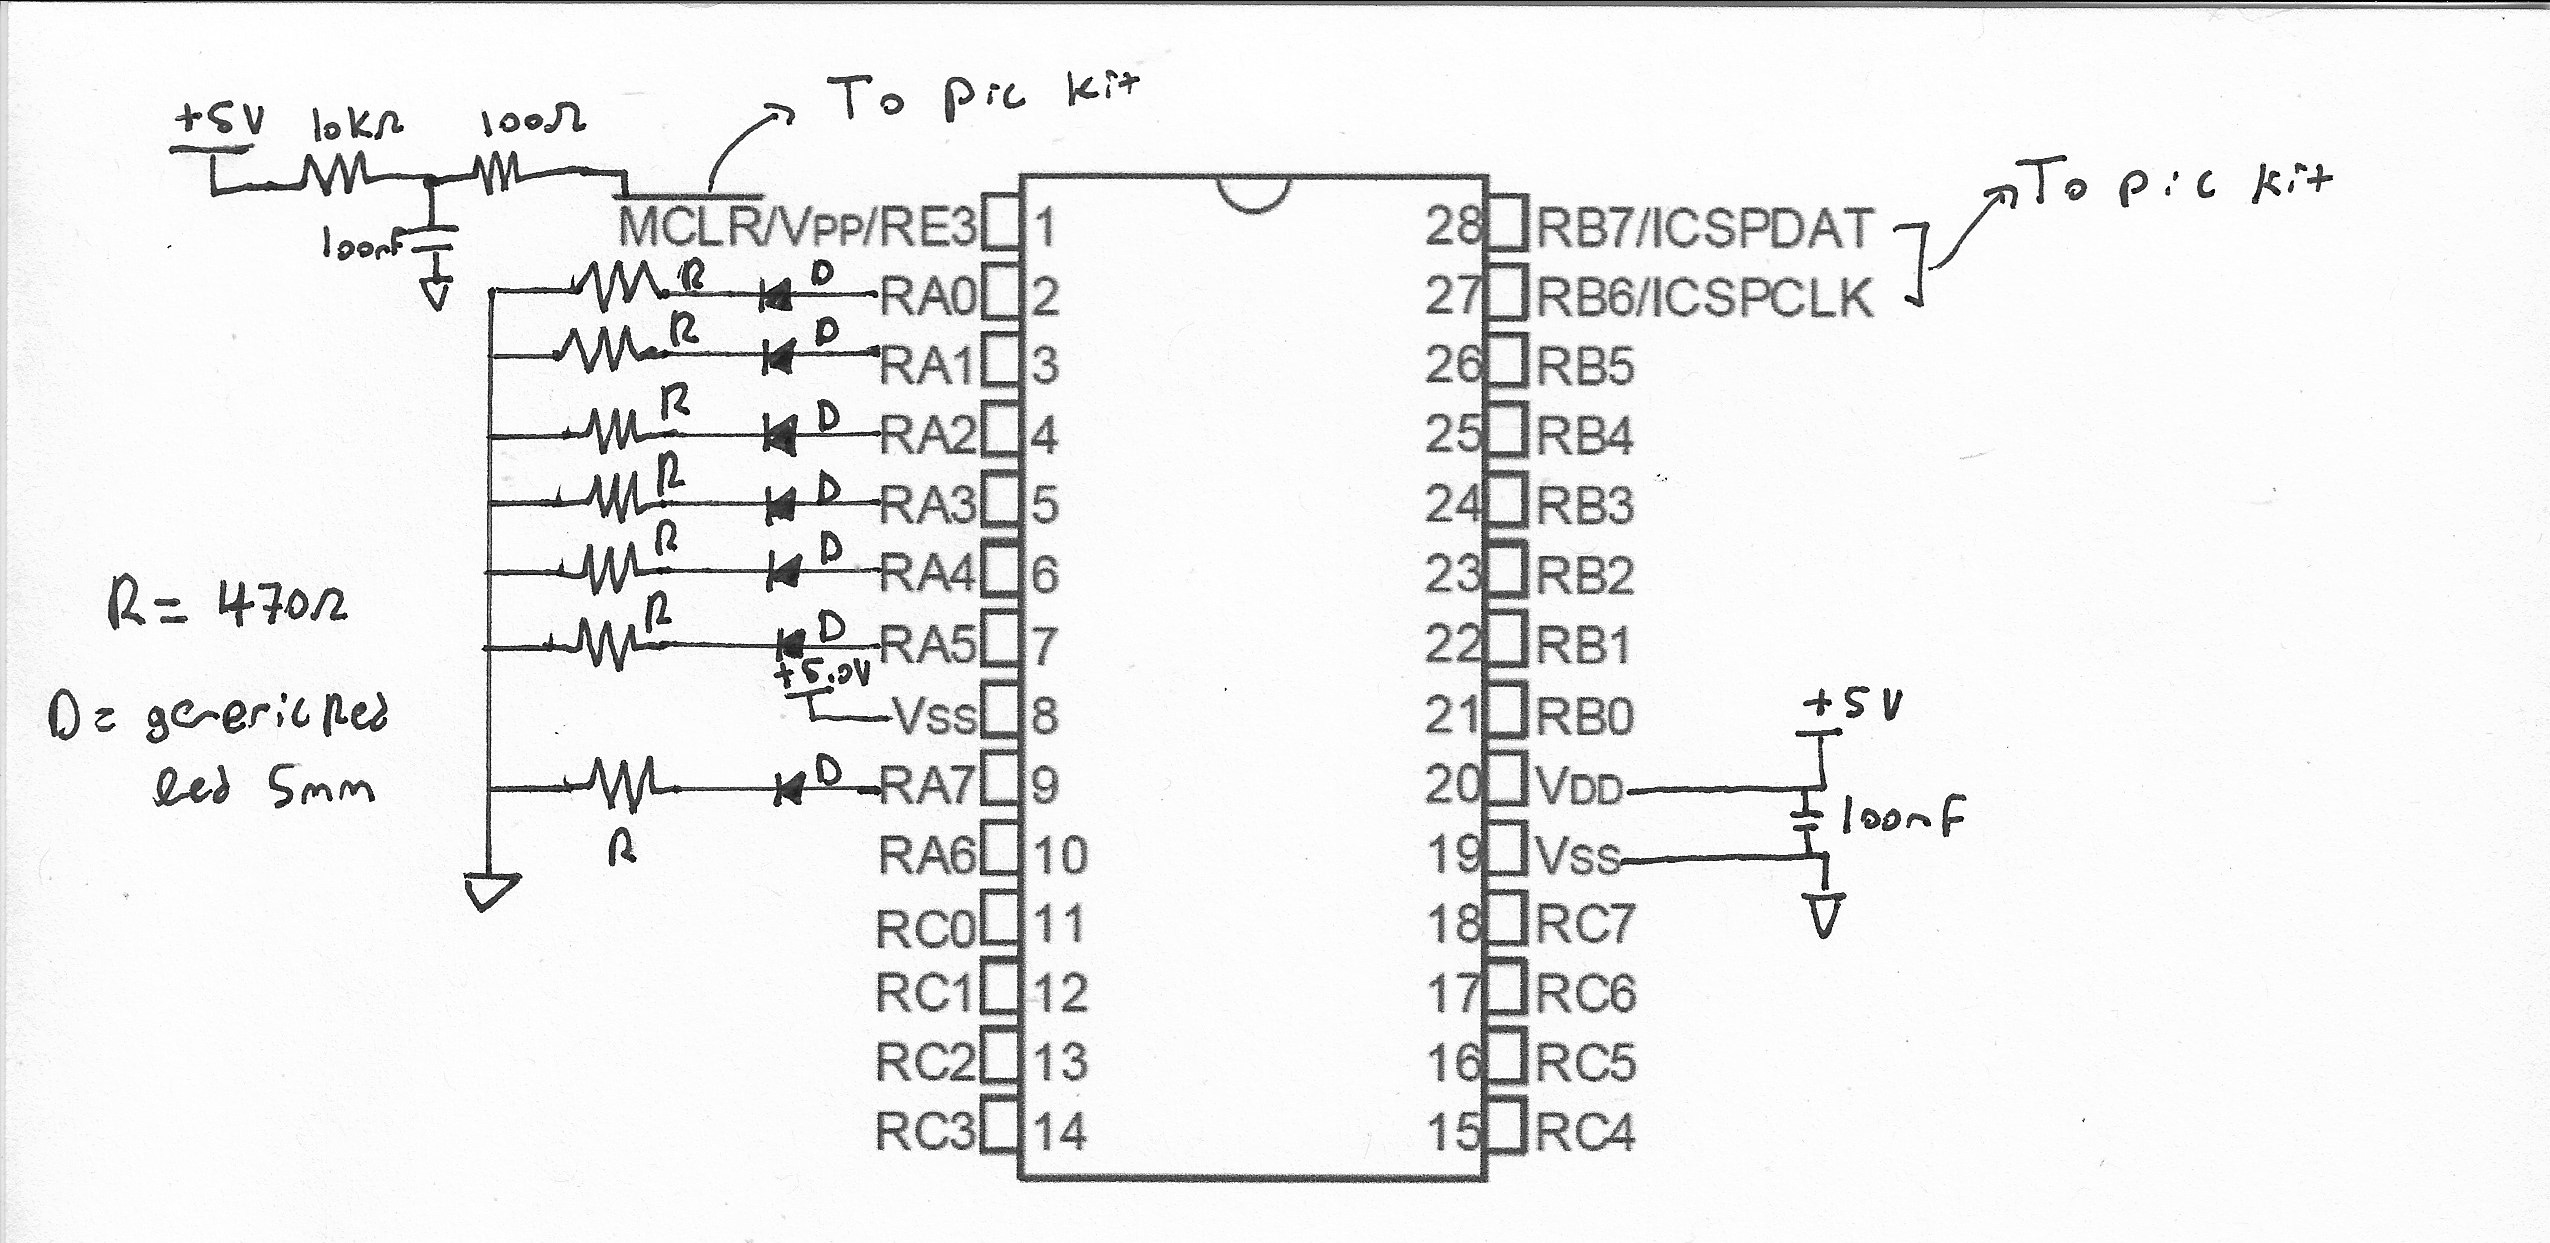
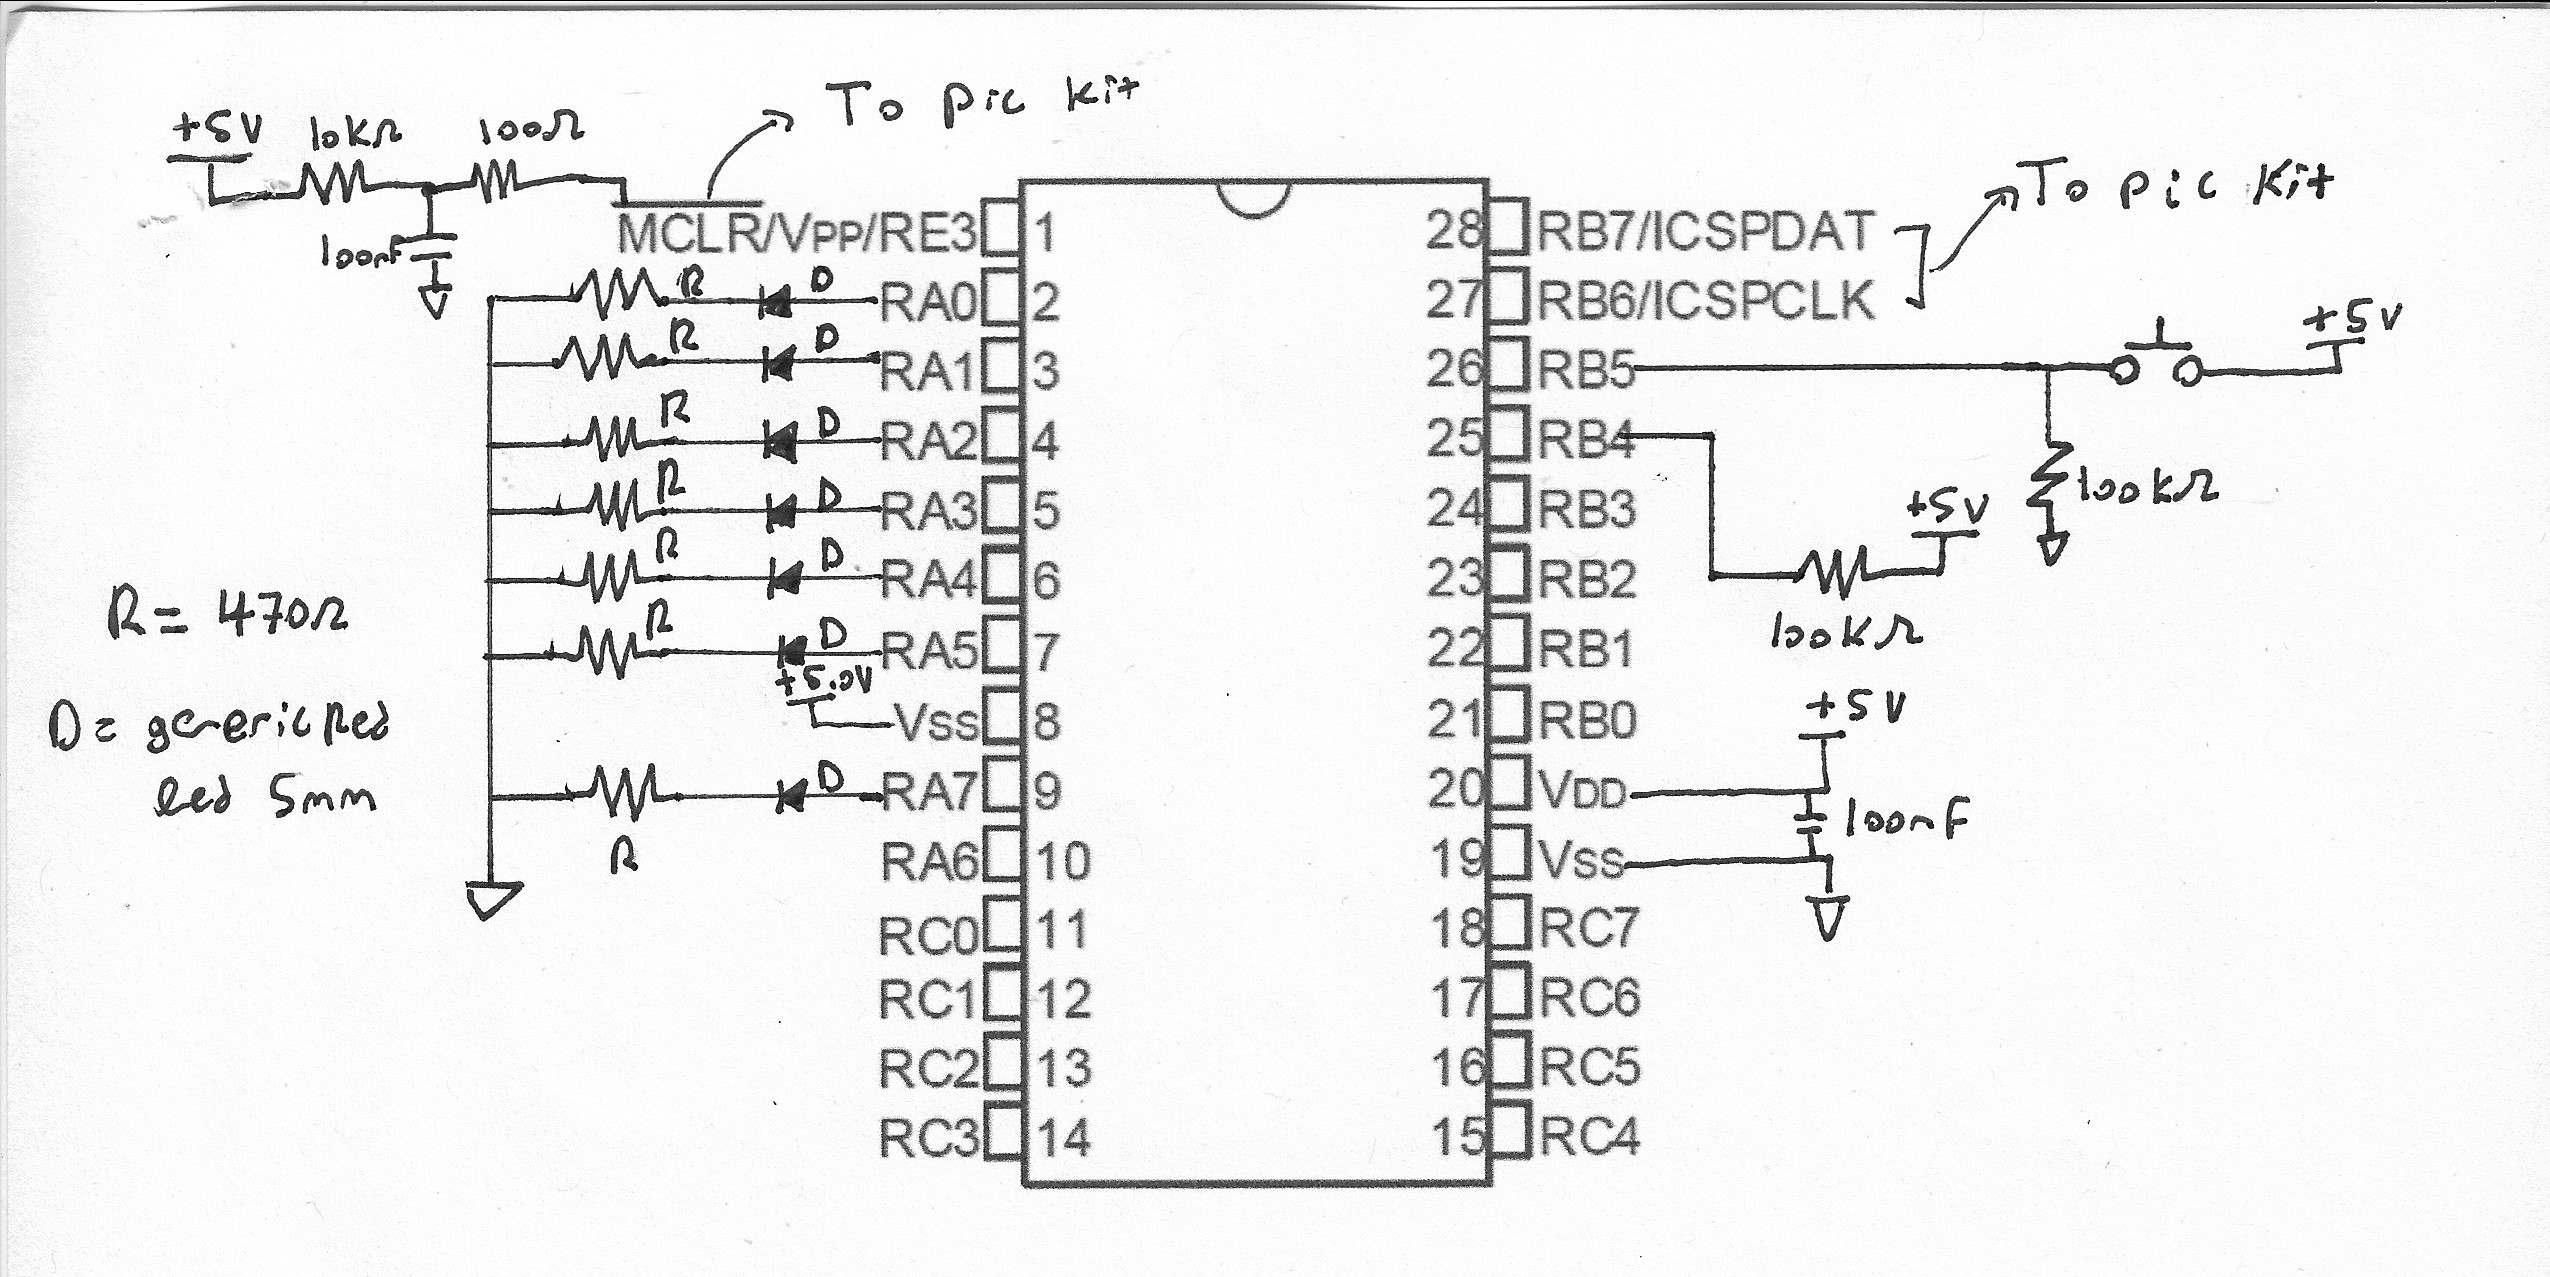
Initial commit

diff --git a/encm369_pic18.c b/encm369_pic18.c
@@ -84,6 +84,7 @@ Requires:
 Promises:
 - Output pin for PA31_HEARTBEAT is configured
 - RA0-7 configured for digital output, initial value 0x80
+- RB4-5 configured as digital inputs 
 
 */
 void GpioSetup(void)
@@ -91,6 +92,10 @@ void GpioSetup(void)
     ANSELA = 0x00; //Setting up RA0-7 as digital IO
     TRISA = 0x00; //Setting RA0-7 to be outputs
     LATA = 0x80; //Setting RA7 latch to high, and RA0-6 latches low
+    
+    ANSELB ^= 0x30; //Setting up RB4-5 as digital IO, default 1 (input)
+    TRISB ^= 0x30; //Setting up RB4-5 as inputs, default 1 (analog)
+    
 } /* end GpioSetup() */
 
 

diff --git a/user_app.c b/user_app.c
@@ -95,7 +95,7 @@ Promises:
 */
 void UserAppRun(void)
 {
-    u32 u32Counter = (286400); 
+    static u32  u32Counter = (286400); 
     
     while (u32Counter > 0)
     {
